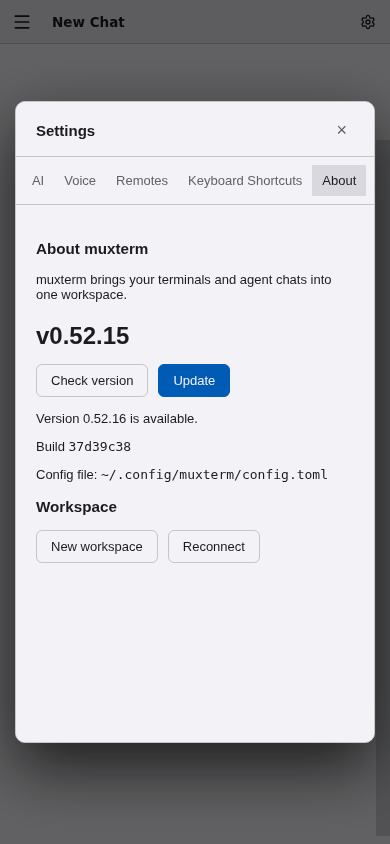
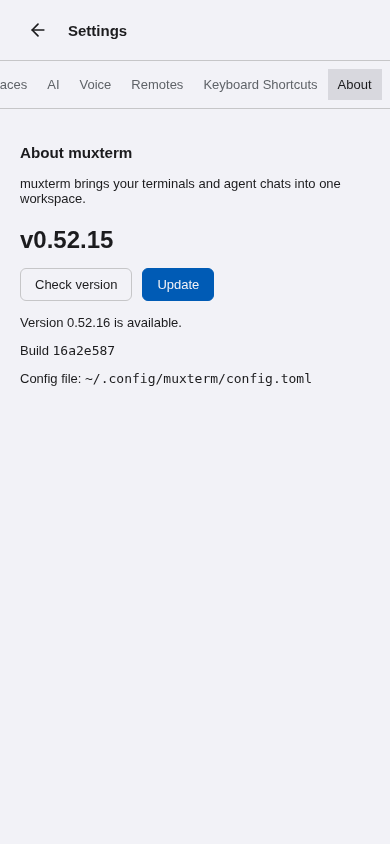
Give Workspaces its own Settings section and mobile Settings a page

diff --git a/web/src/components/settings-surface.ts b/web/src/components/settings-surface.ts
@@ -21,6 +21,8 @@ import {
   type AIStatus,
 } from '../lib/ai.js';
 import { apiPath } from '../lib/base-path.js';
+import { icon } from '../lib/icons.js';
+import { ArrowLeft } from 'lucide';
 import { fetchUpdateStatus, installUpdate, type UpdateStatus } from '../lib/update.js';
 import { remotesStore, type HostConnState } from '../lib/remotes-store.js';
 import {
@@ -33,7 +35,7 @@ import {
   type VoiceMode,
 } from '../lib/voice-settings.js';
 
-export type SettingsSection = 'appearance' | 'notifications' | 'ai' | 'voice' | 'remotes' | 'shortcuts' | 'about';
+export type SettingsSection = 'appearance' | 'notifications' | 'workspaces' | 'ai' | 'voice' | 'remotes' | 'shortcuts' | 'about';
 
 // ── Theme card display metadata ──────────────────────────────────────────────
 
@@ -252,6 +254,27 @@ export class MuxSettingsSurface extends LitElement {
       color: var(--chrome-text-bright);
       background: var(--chrome-hover);
     }
+
+    :host([page-mode]) .header {
+      justify-content: flex-start;
+      gap: 8px;
+      padding: calc(8px + env(safe-area-inset-top, 0px)) 16px 8px;
+    }
+    .back-btn {
+      display: grid;
+      place-items: center;
+      width: 44px;
+      height: 44px;
+      padding: 0;
+      border: 0;
+      border-radius: 6px;
+      background: transparent;
+      color: inherit;
+      cursor: pointer;
+    }
+    .back-btn:hover { background: var(--chrome-hover); }
+    .back-btn:focus-visible { outline: 2px solid var(--chrome-accent); }
+    :host([page-mode]) .content { padding-bottom: calc(40px + env(safe-area-inset-bottom, 0px)); }
 
     /* ── Body: sidebar + content ── */
     .body {
@@ -1049,6 +1072,7 @@ export class MuxSettingsSurface extends LitElement {
   @property({ type: String }) serverAddr = '';
   @property({ attribute: false }) aiStatus: AIStatus = DEFAULT_AI_STATUS;
   @property({ attribute: false }) openSection: SettingsSection | null = null;
+  @property({ type: Boolean, attribute: 'page-mode', reflect: true }) pageMode = false;
 
   @state() private _section: SettingsSection = 'appearance';
   @state() private _updateStatus: UpdateStatus | null = null;
@@ -1184,8 +1208,13 @@ export class MuxSettingsSurface extends LitElement {
       </div>
       <p role="status" class=${this._updateError ? 'r-error' : ''}>${message}</p>
       <p>Build <code>${__GIT_SHA__}</code></p>
-      <p>Config file: <code>~/.config/muxterm/config.toml</code></p>
-      <h3>Workspace</h3>
+      <p>Config file: <code>~/.config/muxterm/config.toml</code></p>`;
+  }
+
+  private _renderWorkspaces() {
+    return html`
+      <h3>Workspaces</h3>
+      <p>Create a workspace for your terminals or reconnect to this Muxterm instance.</p>
       <div class="application-actions">
         <button class="application-button" @click=${() => this._applicationAction('new-workspace')}>New workspace</button>
         <button class="application-button" @click=${() => this._applicationAction('reconnect')}>Reconnect</button>
@@ -2245,8 +2274,9 @@ export class MuxSettingsSurface extends LitElement {
 
     return html`
       <div class="header">
+        ${this.pageMode ? html`<button class="back-btn" aria-label="Back" title="Back" @click=${this._close}>${icon(ArrowLeft, { size: 20 })}</button>` : ''}
         <h2>Settings</h2>
-        <button class="close-btn" title="Close" aria-label="Close settings" @click="${this._close}">×</button>
+        ${this.pageMode ? '' : html`<button class="close-btn" title="Close" aria-label="Close settings" @click="${this._close}">×</button>`}
       </div>
       <div class="body">
         <nav class="sidebar">
@@ -2258,6 +2288,7 @@ export class MuxSettingsSurface extends LitElement {
             class="sidebar-item ${this._section === 'notifications' ? 'active' : ''}"
             @click="${() => { this._setSection('notifications'); }}"
           >Notifications</button>
+          <button class="sidebar-item ${this._section === 'workspaces' ? 'active' : ''}" @click=${() => this._setSection('workspaces')}>Workspaces</button>
           <button
             class="sidebar-item ${this._section === 'ai' ? 'active' : ''}"
             @click="${() => { this._setSection('ai'); }}"
@@ -2278,6 +2309,8 @@ export class MuxSettingsSurface extends LitElement {
             ? this._renderAppearance()
             : this._section === 'about'
               ? this._renderAbout()
+            : this._section === 'workspaces'
+              ? this._renderWorkspaces()
             : this._section === 'shortcuts'
               ? this._renderShortcuts()
             : this._section === 'notifications'

diff --git a/web/src/app.ts b/web/src/app.ts
@@ -392,6 +392,14 @@ export class MuxApp extends LitElement {
       min-height: 0;
     }
 
+    .settings-page {
+      position: fixed;
+      inset: 0;
+      z-index: 3000;
+      display: flex;
+      background: var(--chrome-body);
+    }
+
     /* shortcuts / about panels rendered inline */
     .info-panel {
       padding: 24px 24px 32px;
@@ -1499,15 +1507,30 @@ export class MuxApp extends LitElement {
     this._split = null;
   }
 
+  private _renderSettings(pageMode = false) {
+    return html`<mux-settings-surface
+      .config=${store.config}
+      .aiStatus=${store.aiStatus}
+      .openSection=${this._settingsOpenSection}
+      .pageMode=${pageMode}
+      serverAddr=${window.location.host}
+      @close=${this._closeOverlayPanel}
+      @launcher-action=${this._onLauncherAction}
+      @config-change=${this._onConfigChange}
+      @ai-status-change=${this._onAIStatusChange}
+    ></mux-settings-surface>`;
+  }
+
   render() {
     // Exclude provisional overlay panes (negative IDs) from layout decisions.
     // They have no terminal and should not render as blank tiles.
     const panes = store.panes.filter((p) => p.paneId >= 0);
     const isWide = this._layoutMode === 'wide';
+    const settingsPage = !isWide && this._overlayPanel === 'settings';
     const selectedSDKChat = this._sdkChatId && !UTILITY_TITLES.has(this._sdkChatId) ? this._sdkChatId : '';
 
     return html`
-      ${!isWide ? html`<mux-title-bar
+      ${!isWide && !settingsPage ? html`<mux-title-bar
         .drawerOpen="${this._drawerOpen}"
         .chatTitle="${this._sdkChatId ? UTILITY_TITLES.get(this._sdkChatId) || 'Chat' : ''}"
         @launcher-action="${this._onLauncherAction}"
@@ -1516,7 +1539,7 @@ export class MuxApp extends LitElement {
         @drawer-toggle="${this._onDrawerToggle}"
         @voice-transcript="${this._onVoiceTranscript}"
       ></mux-title-bar>` : ''}
-      <div class="content-area">
+      <div class="content-area" ?inert=${settingsPage}>
         ${isWide ? html`
           <mux-sidebar
             .newChatActive="${this._sdkChatId === 'new'}"
@@ -1686,7 +1709,7 @@ export class MuxApp extends LitElement {
           </div>
         </div>
       ` : ''}
-      ${this._overlayPanel ? html`
+      ${settingsPage ? html`<section class="settings-page" aria-label="Settings">${this._renderSettings(true)}</section>` : this._overlayPanel ? html`
         <div class="overlay-backdrop" @click="${this._closeOverlayPanel}">
           <div
             class="overlay-dialog${this._overlayPanel === 'connect' ? ' cdialog' : ''}"
@@ -1697,18 +1720,7 @@ export class MuxApp extends LitElement {
                 <mux-connect-dialog
                   @close="${this._closeOverlayPanel}"
                 ></mux-connect-dialog>
-              ` : this._overlayPanel === 'settings' ? html`
-                <mux-settings-surface
-                  .config="${store.config}"
-                  .aiStatus="${store.aiStatus}"
-                  .openSection="${this._settingsOpenSection}"
-                  serverAddr="${window.location.host}"
-                  @close="${this._closeOverlayPanel}"
-                  @launcher-action="${this._onLauncherAction}"
-                  @config-change="${this._onConfigChange}"
-                  @ai-status-change="${this._onAIStatusChange}"
-                ></mux-settings-surface>
-              ` : ''}
+              ` : this._overlayPanel === 'settings' ? this._renderSettings() : ''}
             </div>
           </div>
         </div>

diff --git a/docs/verification/chat-progress-settings-2026-10-19/README.md b/docs/verification/chat-progress-settings-2026-10-19/README.md
@@ -5,10 +5,15 @@ The chat streamed two distinct progress updates around two shell commands, then
 preserved those updates through history replay and browser reload. Visible sidebar
 labels measured 12.5px, matching New Chat.
 
+Workspaces has its own Settings section. Mobile Settings fills the viewport with
+a Back control; desktop Settings remains a modal.
+
 - [Live progress](progress-live.png)
 - [Progress history and sidebar](progress-history.png)
 - [Settings → About](settings-about.png)
-- [Settings on mobile](settings-mobile.png)
+- [Settings → Workspaces](settings-workspaces.png)
+- [Settings page on mobile](settings-mobile.png)
+- [Workspaces on mobile](settings-workspaces-mobile.png)
 
 Version availability in these screenshots is a browser fixture (0.52.15 → 0.52.16).
 Update application was intercepted in the browser; no binary update was executed.
